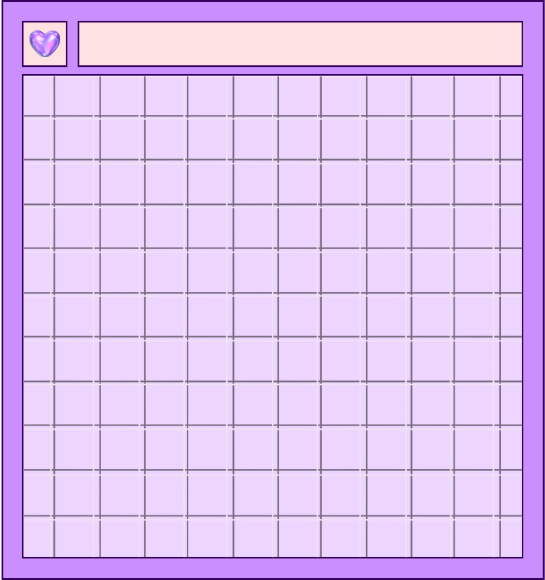
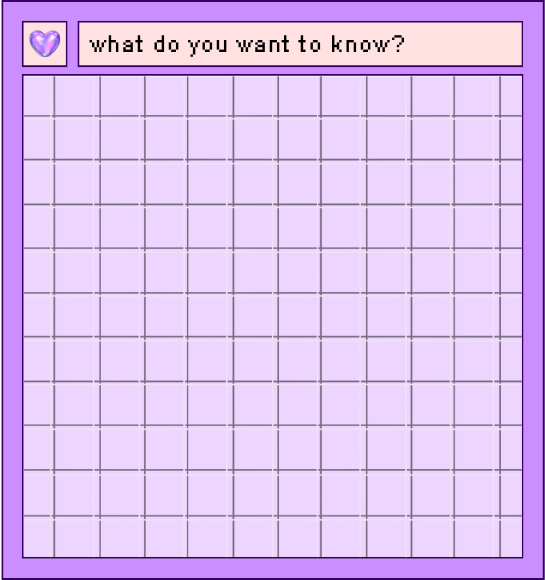
did initial layout for about page

Changed region(s): [[0.156, 0.0621, 0.7486, 0.0931]]

diff --git a/week8/css/about-style.css b/week8/css/about-style.css
@@ -164,6 +164,35 @@ a.abt-icons:hover::before {
     --scale: 1;
 }
 
+/* big window */
+
+div#select {
+    display: flex;
+    justify-content: center;
+    flex-direction: column;
+    position: absolute;
+    top: 6vw;
+    left: 17vw;
+    width: 20vw;
+    opacity: 0;
+    animation: fade-in 1s forwards;
+    animation-delay: 2.5s;
+}
+div#select p {
+    font-family: dogicapixel;
+    font-size: 0.7vw;
+    text-align: center;
+    background-color: #c8a6f8;
+    border-radius: 20px;
+    padding: 0.5vw;
+    line-height: 1.3;
+    width: 20vw;
+    opacity: 0;
+    animation: blink 2s linear infinite;
+    animation-direction: alternate;
+    animation-delay: 2.5s;
+}
+
 /* FOOTER */
 
 #footer-content {

diff --git a/week8/about.html b/week8/about.html
@@ -60,7 +60,11 @@
             </div>
         </div>
         <div id="about-big">
-            <img id="abt-big" src="resources/windows/about-big.png">
+            <img id="abt-big" src="resources/windows/about-big2.png">
+            <div id="select">
+                <img src="resources/icons/kuromi-gif.gif">
+                <p>select one from the left window to continue . .</p>
+            </div>
         </div>
     </div>
 

diff --git a/week8/contact_form.php b/week8/contact_form.php
@@ -137,5 +137,30 @@
             echo $gender;
             ?>
 
+            <?php
+            $servername = "localhost";
+            $username = "root";
+            $password = "";
+            $dbname = "myDB";
+
+            // Create connection
+            $conn = new mysqli($servername, $username, $password, $dbname);
+            // Check connection
+            if ($conn->connect_error) {
+            die("Connection failed: " . $conn->connect_error);
+            }
+
+            $sql = "INSERT INTO MyGuests (firstname, lastname, email)
+            VALUES ('$name', '$website', '$email')";
+
+            if ($conn->query($sql) === TRUE) {
+            echo "New record created successfully";
+            } else {
+            echo "Error: " . $sql . "<br>" . $conn->error;
+            }
+
+            $conn->close();
+            ?>
+
         </div>
     </div>
